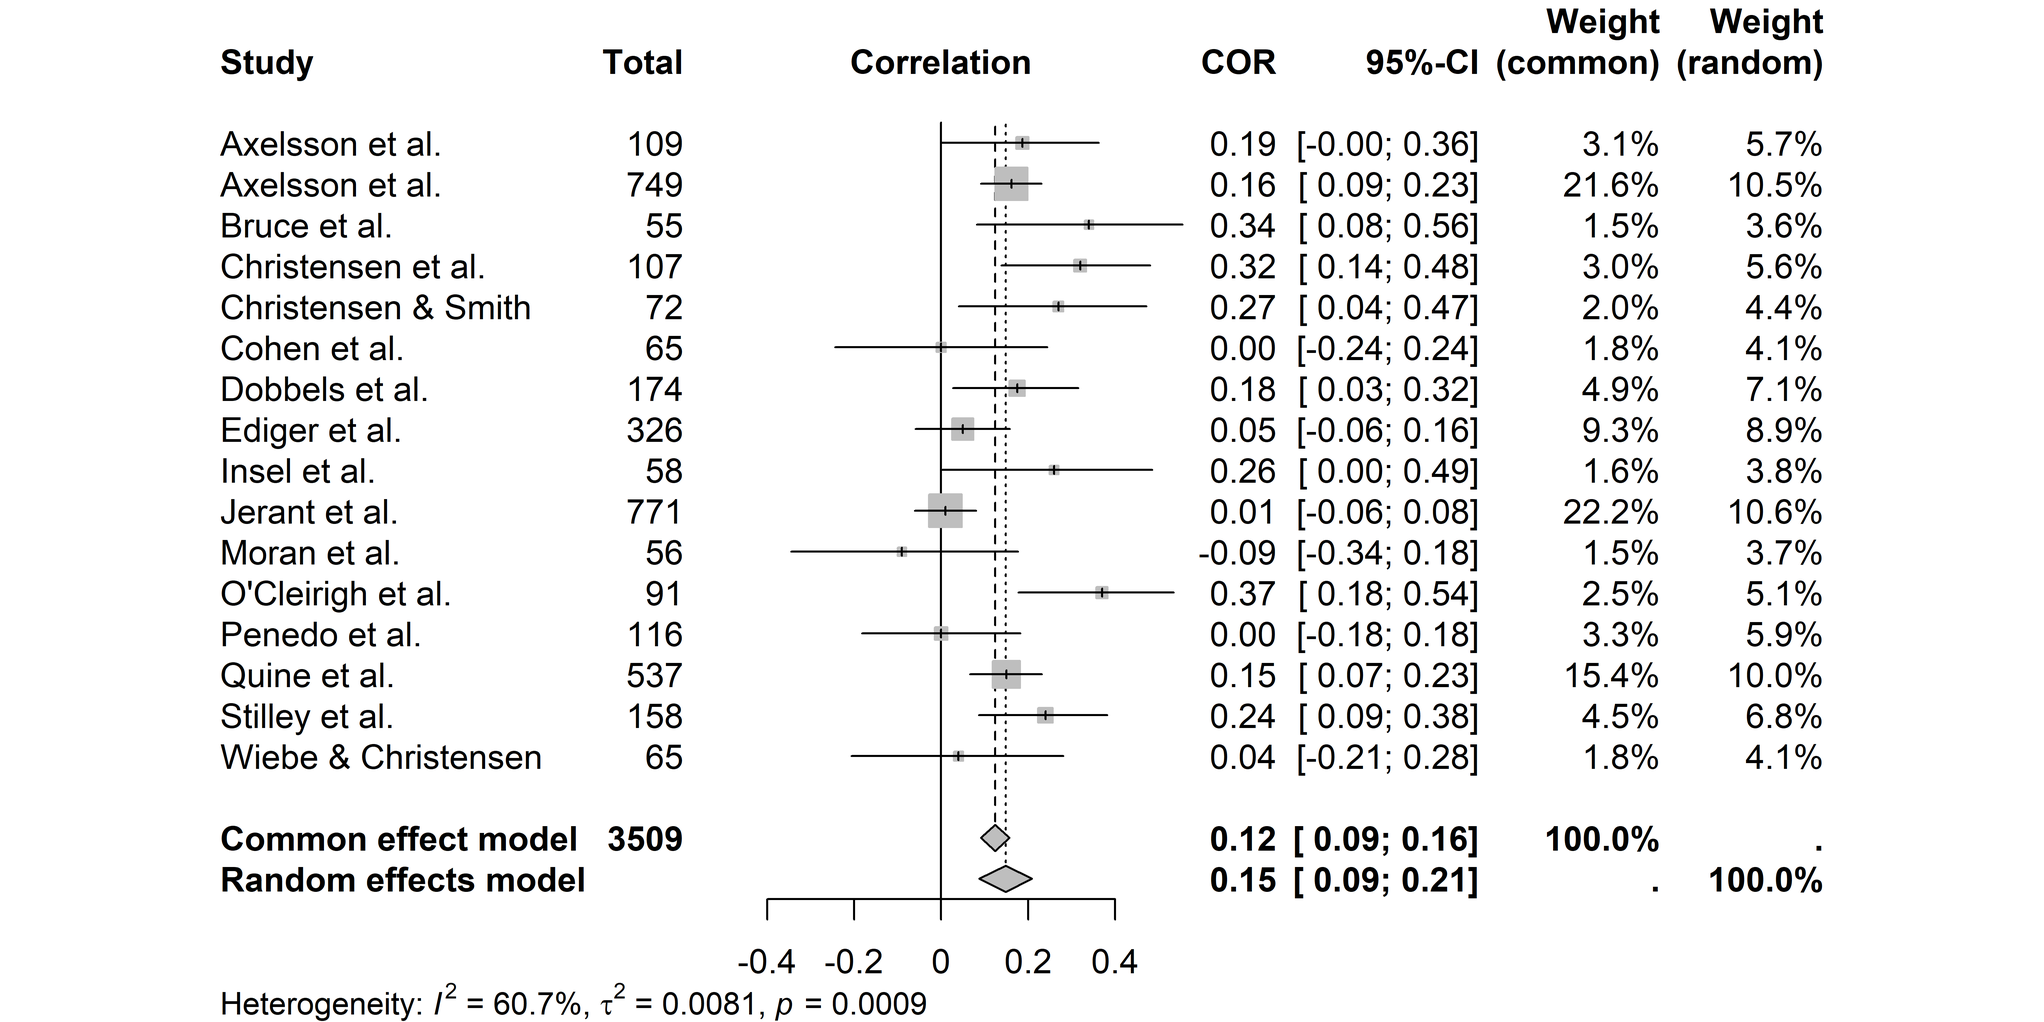
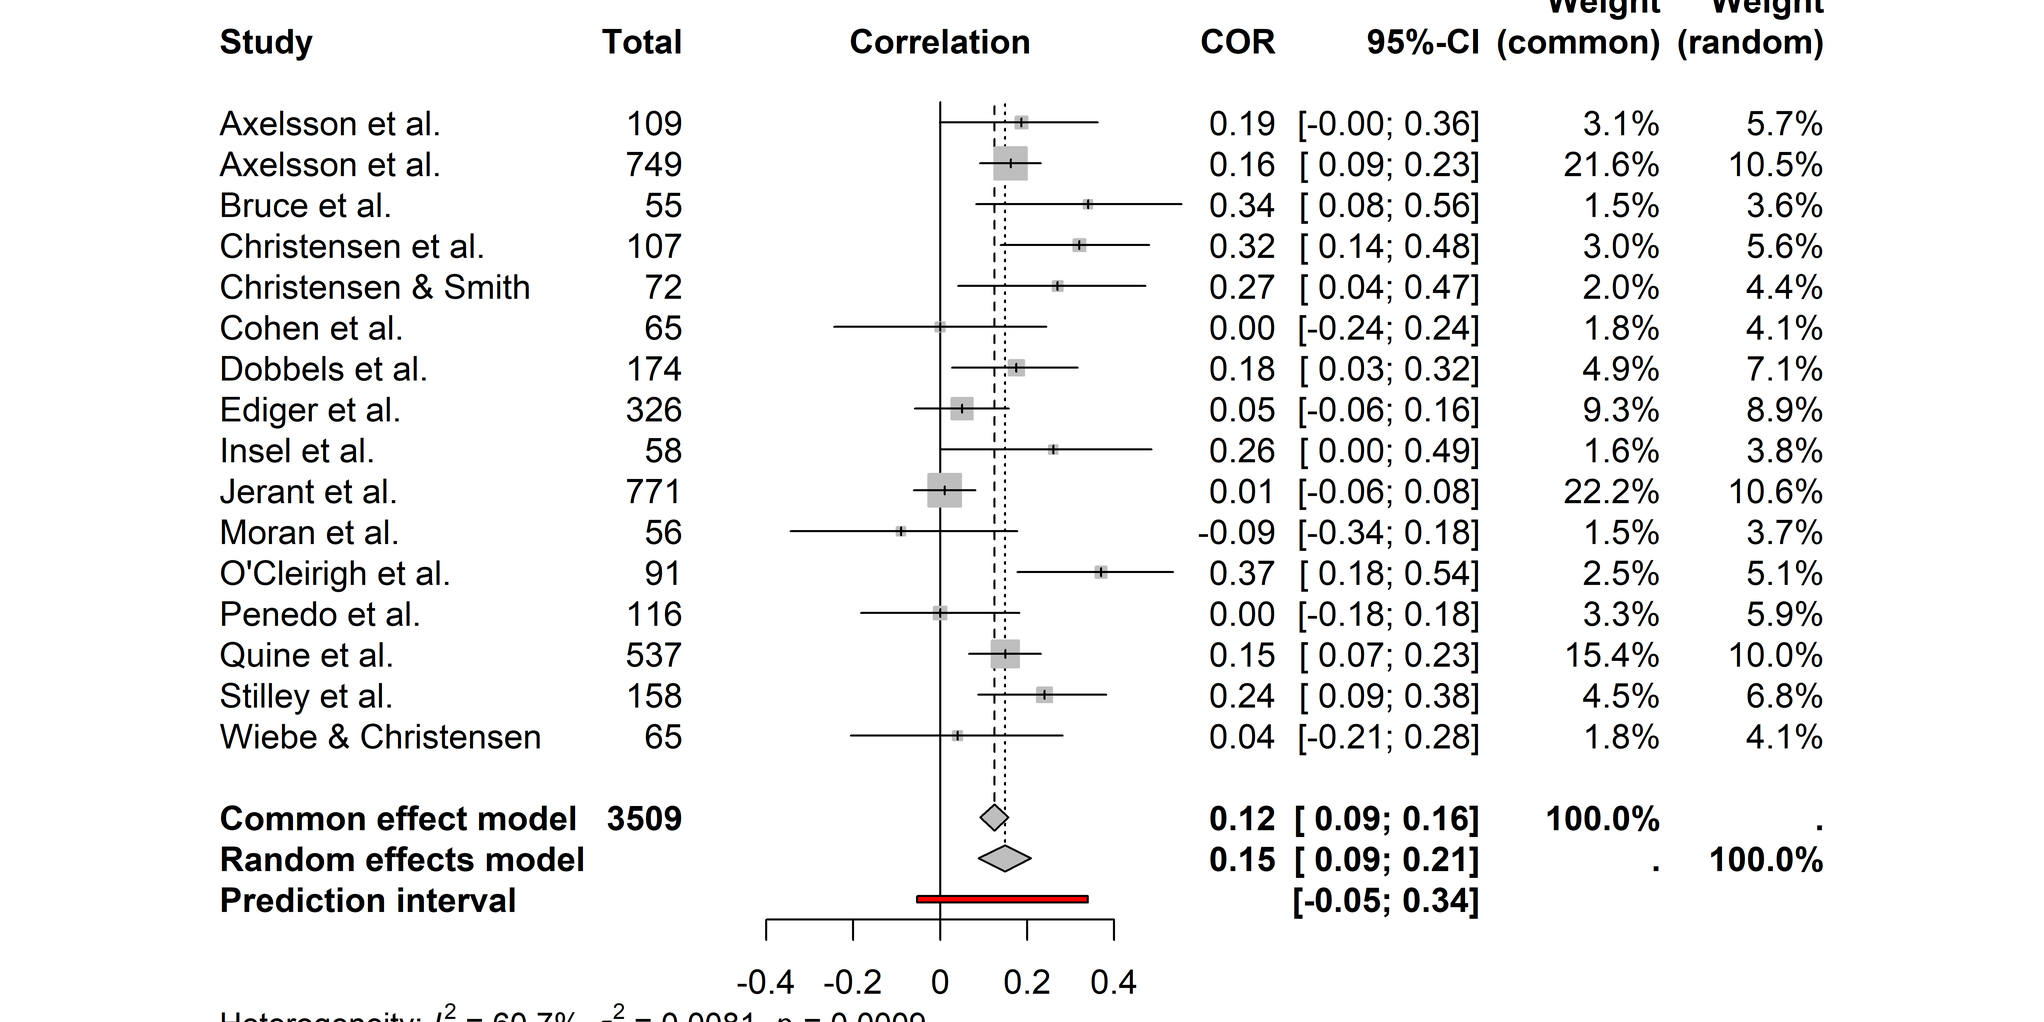
update final

diff --git a/index.html b/index.html
@@ -283,7 +283,7 @@
 <li class="fragment"><p>Asume que los estimadores individuales corresponden a un <strong>mismo efecto verdadero</strong> y toda la variación se da a causa del <strong>error muestral</strong>.</p></li>
 <li class="fragment"><p>El estimador global (<span class="math inline">\(\theta\)</span>) se calcula como el promedio ponderado de los efectos individuales (<span class="math inline">\(y_i\)</span>):</p>
 <p><span class="math display">\[
-\theta = \frac{\sum{y_i w_i}}{\sum{w_i}}\qquad donde~w_i = 1/var_i
+\theta = \frac{\sum{y_i w_i}}{\sum{w_i}}\qquad donde~w_i = 1/S^2_i
 \]</span></p></li>
 <li class="fragment"><p>Los estudios con <strong>menor varianza</strong> tienen <strong>mayor peso</strong> en la estimación global.</p></li>
 </ul>
@@ -300,8 +300,8 @@
 
 <ul>
 <li class="fragment"><p>💡 El <strong>objetivo</strong> será estimar la <strong>media de la distribución de efectos verdaderos</strong>.</p></li>
-<li class="fragment"><p>La ponderación de los estudios entonces tiene en cuenta la varianza dentro del estudio (<span class="math inline">\(var_i\)</span>) y la heterogeneidad entre estudios (<span class="math inline">\(\tau^2\)</span>):</p>
-<p><span class="math display">\[w^*_i = \frac{1}{var_i + \tau^2}\]</span></p></li>
+<li class="fragment"><p>La ponderación de los estudios entonces tiene en cuenta la varianza dentro del estudio (<span class="math inline">\(S^2_i\)</span>) y la heterogeneidad entre estudios (<span class="math inline">\(\tau^2\)</span>):</p>
+<p><span class="math display">\[w^*_i = \frac{1}{S^2_i + \tau^2}\]</span></p></li>
 <li class="fragment"><p>Los métodos más comunes para estimar <span class="math inline">\(\tau^2\)</span> son:</p>
 <ul>
 <li class="fragment"><strong>Máxima verosimilitud restringida</strong> (REML)</li>
@@ -313,18 +313,14 @@
 
 <h3 id="medidas-de-heterogeneidad">Medidas de heterogeneidad</h3>
 <ul>
-<li class="fragment"><p><strong>tau-cuadrado</strong> (<span class="math inline">\(\tau^2\)</span>)</p>
-<ul>
-<li class="fragment"><p>Estima la <strong>varianza entre efectos verdaderos</strong>.</p></li>
-<li class="fragment"><p>Se utiliza para ponderar estudios en modelos de efectos aleatorios</p></li>
-</ul></li>
+<li class="fragment"><p><strong>tau-cuadrado</strong> (<span class="math inline">\(\tau^2\)</span>): Varianza entre efectos verdaderos.</p></li>
 <li class="fragment"><p><strong>Q de Cochran</strong>:</p>
 <ul>
 <li class="fragment"><p>Contrasta la hipótesis de efecto común.</p></li>
 <li class="fragment"><p>Sensible al número de estudios.</p></li>
 <li class="fragment"><p>No mide magnitud de la heterogeneidad.</p></li>
 </ul></li>
-<li class="fragment"><p><span class="math inline">\(H^2\)</span>: Razón entre la varianza total observada y la varianza esperada bajo el supuesto de homogeneidad.</p></li>
+<li class="fragment"><p><span class="math inline">\(H^2\)</span>: Razón entre la varianza total observada y la esperada bajo el supuesto de homogeneidad.</p></li>
 </ul>
 </section>
 <section class="slide level2">
@@ -336,12 +332,24 @@
 <li class="fragment"><p>Independiente del número de estudios.</p></li>
 <li class="fragment"><p>Interpretación:</p>
 <ul>
-<li class="fragment"><p>25%: baja</p></li>
-<li class="fragment"><p>50%: moderada</p></li>
-<li class="fragment"><p>75%: alta</p></li>
+<li class="fragment"><p><strong>0-25%</strong>: baja heterogeneidad</p></li>
+<li class="fragment"><p><strong>25-50%</strong>: heterogeneidad moderada</p></li>
+<li class="fragment"><p><strong>50-75%</strong>: heterogeneidad sustancial</p></li>
+<li class="fragment"><p><strong>&gt;75%</strong>: alta heterogeneidad</p></li>
 </ul></li>
 </ul></li>
-<li class="fragment"><p><strong>Intervalo de predicción</strong>: Rango de valores que podrán tomar los estimadores de estudios futuros.</p></li>
+</ul>
+</section>
+<section class="slide level2">
+
+<ul>
+<li class="fragment"><p><strong>Intervalo de predicción</strong>:</p>
+<ul>
+<li class="fragment"><p>Predice el rango esperado del efecto en un nuevo estudio, considerando la evidencia existente.</p></li>
+<li class="fragment"><p>A diferencia del intervalo de confianza del efecto global, incorpora la <strong>heterogeneidad entre estudios</strong> (<span class="math inline">\(\tau^2\)</span>).</p></li>
+<li class="fragment"><p>Complementa la interpretación del <span class="math inline">\(I^2\)</span> y <span class="math inline">\(\tau^2\)</span>.</p></li>
+<li class="fragment"><p>Indica si los resultados son consistentes entre estudios.</p></li>
+</ul></li>
 </ul>
 </section>
 <section id="meta-análisis-en-r" class="slide level2">
@@ -451,14 +459,15 @@
 </ul>
 <div class="fragment">
 <div class="cell" data-layout-align="center">
-<div class="sourceCode cell-code" id="cb6" data-code-line-numbers="1-2,8"><pre class="sourceCode numberSource r number-lines code-with-copy"><code class="sourceCode r"><span id="cb6-1"><a href=""></a>mod <span class="ot">&lt;-</span> <span class="fu">metagen</span>(<span class="at">TE =</span> yi,    <span class="co"># Estimador de efecto         </span></span>
+<div class="sourceCode cell-code" id="cb6" data-code-line-numbers="1-2,7-9"><pre class="sourceCode numberSource r number-lines code-with-copy"><code class="sourceCode r"><span id="cb6-1"><a href=""></a>mod <span class="ot">&lt;-</span> <span class="fu">metagen</span>(<span class="at">TE =</span> yi,    <span class="co"># Estimador de efecto         </span></span>
 <span id="cb6-2"><a href=""></a>               <span class="at">seTE =</span> vi,  <span class="co"># Varianza del estimador</span></span>
 <span id="cb6-3"><a href=""></a>               <span class="at">sm =</span> <span class="st">"SMD"</span>, <span class="co"># Diferencia de medias estandarizada</span></span>
 <span id="cb6-4"><a href=""></a>               <span class="at">studlab =</span> study,    </span>
 <span id="cb6-5"><a href=""></a>               <span class="at">common =</span> <span class="cn">TRUE</span>,   </span>
 <span id="cb6-6"><a href=""></a>               <span class="at">random =</span> <span class="cn">TRUE</span>,    </span>
 <span id="cb6-7"><a href=""></a>               <span class="at">backtransf =</span> <span class="cn">TRUE</span>, </span>
-<span id="cb6-8"><a href=""></a>               <span class="at">data =</span> datos)</span></code><button title="Copy to Clipboard" class="code-copy-button"><i class="bi"></i></button></pre></div>
+<span id="cb6-8"><a href=""></a>               <span class="at">prediction =</span> <span class="cn">TRUE</span>, <span class="co"># Calcular intervalo de predicción</span></span>
+<span id="cb6-9"><a href=""></a>               <span class="at">data =</span> datos)</span></code><button title="Copy to Clipboard" class="code-copy-button"><i class="bi"></i></button></pre></div>
 </div>
 </div>
 <ul>
@@ -478,6 +487,7 @@
                          SMD             95%-CI      z p-value
 Common effect model  -0.0133 [-0.0140; -0.0126] -38.82       0
 Random effects model  0.1219 [ 0.0365;  0.2074]   2.80  0.0052
+Prediction interval          [-0.5328;  0.7767]               
 
 Quantifying heterogeneity (with 95%-CIs):
  tau^2 = 0.1048 [0.0739; 0.1588]; tau = 0.3238 [0.2719; 0.3985]
@@ -491,7 +501,8 @@ Details of meta-analysis methods:
 - Inverse variance method
 - Restricted maximum-likelihood estimator for tau^2
 - Q-Profile method for confidence interval of tau^2 and tau
-- Calculation of I^2 based on Q</code></pre>
+- Calculation of I^2 based on Q
+- Prediction interval based on t-distribution (df = 55)</code></pre>
 </div>
 </div>
 </div>
@@ -550,13 +561,13 @@ Details of meta-analysis methods:
 </div>
 </div>
 </section>
-<section id="funciones-metaxxx" class="slide level2">
-<h2>Funciones <code>metaxxx()</code></h2>
+<section id="funciones-meta___" class="slide level2">
+<h2>Funciones <code>meta___()</code></h2>
 <ul>
-<li class="fragment"><p>Permiten ajustar modelos de meta-análisis a partir de datos crudos sin necesidad de transformaciones previas.</p></li>
-<li class="fragment"><p>Se nombran siguiendo la estructura <code>metaxxx</code>, donde <code>xxx</code>es el tipo de datos o indicador.</p></li>
-<li class="fragment"><p>Ajustan modelos de efectos fijos y aleatorios y estiman indicadores de heterogeneidad.</p></li>
-<li class="fragment"><p>Devuelven los resultados en la escala original de los datos, aplicando la transformación inversa (argumento <code>backtransf = TRUE</code>).</p></li>
+<li class="fragment"><p>Permiten ajustar modelos de meta-análisis a partir de datos crudos.</p></li>
+<li class="fragment"><p>Se nombran siguiendo la estructura <code>meta__</code>, donde <code>___</code> es el tipo de datos o estimador de efecto.</p></li>
+<li class="fragment"><p>Realizan las transformaciones necesarias de los datos sin que tengamos que manipularlos previamente.</p></li>
+<li class="fragment"><p>Presentan los resultados en la escala original de los datos, aplicando la transformación inversa (argumento <code>backtransf = TRUE</code>).</p></li>
 </ul>
 </section>
 <section class="slide level2">
@@ -595,12 +606,13 @@ Details of meta-analysis methods:
 </div>
 <div class="sourceCode cell-code" id="cb11"><pre class="sourceCode numberSource r number-lines code-with-copy"><code class="sourceCode r"><span id="cb11-1"><a href=""></a><span class="co"># Ajustar modelo</span></span>
 <span id="cb11-2"><a href=""></a>mod_cor <span class="ot">&lt;-</span> <span class="fu">metacor</span>(</span>
-<span id="cb11-3"><a href=""></a>  <span class="at">cor =</span> ri,           <span class="co"># Coeficientes de correlación</span></span>
-<span id="cb11-4"><a href=""></a>  <span class="at">n =</span> ni,             <span class="co"># Tamaño muestral</span></span>
-<span id="cb11-5"><a href=""></a>  <span class="at">sm =</span> <span class="st">"ZCOR"</span>,        <span class="co"># Estimador de efecto</span></span>
-<span id="cb11-6"><a href=""></a>  <span class="at">studlab =</span> authors,  <span class="co"># Identificador del estudio</span></span>
-<span id="cb11-7"><a href=""></a>  <span class="at">data =</span> datos_cor    <span class="co"># Tabla de datos</span></span>
-<span id="cb11-8"><a href=""></a>)</span></code><button title="Copy to Clipboard" class="code-copy-button"><i class="bi"></i></button></pre></div>
+<span id="cb11-3"><a href=""></a>  <span class="at">cor =</span> ri,            <span class="co"># Coeficientes de correlación</span></span>
+<span id="cb11-4"><a href=""></a>  <span class="at">n =</span> ni,              <span class="co"># Tamaño muestral</span></span>
+<span id="cb11-5"><a href=""></a>  <span class="at">sm =</span> <span class="st">"ZCOR"</span>,         <span class="co"># Estimador de efecto</span></span>
+<span id="cb11-6"><a href=""></a>  <span class="at">studlab =</span> authors,   <span class="co"># Identificador del estudio</span></span>
+<span id="cb11-7"><a href=""></a>  <span class="at">data =</span> datos_cor,    <span class="co"># Tabla de datos</span></span>
+<span id="cb11-8"><a href=""></a>  <span class="at">prediction =</span> <span class="cn">TRUE</span>    <span class="co"># Calcular intervalo de predicción</span></span>
+<span id="cb11-9"><a href=""></a>)</span></code><button title="Copy to Clipboard" class="code-copy-button"><i class="bi"></i></button></pre></div>
 </div>
 </div>
 <div id="tabset-2-2">
@@ -609,9 +621,10 @@ Details of meta-analysis methods:
 <pre><code>Number of studies: k = 16
 Number of observations: o = 3509
 
-                        COR           95%-CI    z  p-value
-Common effect model  0.1245 [0.0916; 0.1572] 7.36 &lt; 0.0001
-Random effects model 0.1488 [0.0878; 0.2087] 4.75 &lt; 0.0001
+                        COR            95%-CI    z  p-value
+Common effect model  0.1245 [ 0.0916; 0.1572] 7.36 &lt; 0.0001
+Random effects model 0.1488 [ 0.0878; 0.2087] 4.75 &lt; 0.0001
+Prediction interval         [-0.0534; 0.3393]              
 
 Quantifying heterogeneity (with 95%-CIs):
  tau^2 = 0.0081 [0.0017; 0.0378]; tau = 0.0901 [0.0412; 0.1944]
@@ -626,6 +639,7 @@ Details of meta-analysis methods:
 - Restricted maximum-likelihood estimator for tau^2
 - Q-Profile method for confidence interval of tau^2 and tau
 - Calculation of I^2 based on Q
+- Prediction interval based on t-distribution (df = 15)
 - Fisher's z transformation of correlations</code></pre>
 </div>
 </div>
@@ -655,13 +669,14 @@ Details of meta-analysis methods:
 </div>
 <div class="sourceCode cell-code" id="cb15"><pre class="sourceCode numberSource r number-lines code-with-copy"><code class="sourceCode r"><span id="cb15-1"><a href=""></a><span class="co"># Ajustar modelo</span></span>
 <span id="cb15-2"><a href=""></a>mod_prev <span class="ot">&lt;-</span> <span class="fu">metaprop</span>(</span>
-<span id="cb15-3"><a href=""></a>  <span class="at">event =</span> cases,      <span class="co"># Individuos con la condición</span></span>
-<span id="cb15-4"><a href=""></a>  <span class="at">n =</span> total,          <span class="co"># Tamaño muestral</span></span>
-<span id="cb15-5"><a href=""></a>  <span class="at">sm =</span> <span class="st">"PLO"</span>,         <span class="co"># Estimador de efecto</span></span>
-<span id="cb15-6"><a href=""></a>  <span class="at">pscale =</span> <span class="dv">1000</span>,      <span class="co"># Expresar prevalencia cada 1000 hab</span></span>
-<span id="cb15-7"><a href=""></a>  <span class="at">studlab =</span> study,    <span class="co"># Identificador del estudio</span></span>
-<span id="cb15-8"><a href=""></a>  <span class="at">data =</span> datos_prev   <span class="co"># Tabla de datos</span></span>
-<span id="cb15-9"><a href=""></a>)</span></code><button title="Copy to Clipboard" class="code-copy-button"><i class="bi"></i></button></pre></div>
+<span id="cb15-3"><a href=""></a>  <span class="at">event =</span> cases,       <span class="co"># Individuos con la condición</span></span>
+<span id="cb15-4"><a href=""></a>  <span class="at">n =</span> total,           <span class="co"># Tamaño muestral</span></span>
+<span id="cb15-5"><a href=""></a>  <span class="at">sm =</span> <span class="st">"PLO"</span>,          <span class="co"># Estimador de efecto</span></span>
+<span id="cb15-6"><a href=""></a>  <span class="at">pscale =</span> <span class="dv">1000</span>,       <span class="co"># Expresar prevalencia cada 1000 hab</span></span>
+<span id="cb15-7"><a href=""></a>  <span class="at">studlab =</span> study,     <span class="co"># Identificador del estudio</span></span>
+<span id="cb15-8"><a href=""></a>  <span class="at">data =</span> datos_prev,   <span class="co"># Tabla de datos</span></span>
+<span id="cb15-9"><a href=""></a>  <span class="at">prediction =</span> <span class="cn">TRUE</span>    <span class="co"># Calcular intervalo de predicción</span></span>
+<span id="cb15-10"><a href=""></a>)</span></code><button title="Copy to Clipboard" class="code-copy-button"><i class="bi"></i></button></pre></div>
 </div>
 </div>
 <div id="tabset-3-2">
@@ -674,6 +689,7 @@ Number of events: e = 1545
                      events           95%-CI
 Common effect model  0.2290 [0.2179; 0.2407]
 Random effects model 0.2246 [0.2082; 0.2422]
+Prediction interval         [0.1753; 0.2877]
 
 Quantifying heterogeneity (with 95%-CIs):
  tau^2 = 0.0130 [0.0000; 0.0376]; tau = 0.1139 [0.0000; 0.1938]
@@ -688,6 +704,7 @@ Details of meta-analysis methods:
 - Restricted maximum-likelihood estimator for tau^2
 - Q-Profile method for confidence interval of tau^2 and tau
 - Calculation of I^2 based on Q
+- Prediction interval based on t-distribution (df = 25)
 - Logit transformation
 - Events per 1000 observations</code></pre>
 </div>
@@ -720,14 +737,15 @@ Details of meta-analysis methods:
 </div>
 <div class="sourceCode cell-code" id="cb19"><pre class="sourceCode numberSource r number-lines code-with-copy"><code class="sourceCode r"><span id="cb19-1"><a href=""></a><span class="co"># Ajustar modelo</span></span>
 <span id="cb19-2"><a href=""></a>mod_or <span class="ot">&lt;-</span> <span class="fu">metabin</span>(</span>
-<span id="cb19-3"><a href=""></a>  <span class="at">event.e =</span> pre.xti,  <span class="co"># Expuestos con el evento</span></span>
-<span id="cb19-4"><a href=""></a>  <span class="at">n.e =</span> pre.nti,      <span class="co"># Tamaño muestral expuestos</span></span>
-<span id="cb19-5"><a href=""></a>  <span class="at">event.c =</span> pre.xci,  <span class="co"># No expuestos con el evento</span></span>
-<span id="cb19-6"><a href=""></a>  <span class="at">n.c =</span> pre.nci,      <span class="co"># Tamaño muestral no expuestos</span></span>
-<span id="cb19-7"><a href=""></a>  <span class="at">sm =</span> <span class="st">"OR"</span>,          <span class="co"># Estimador de efecto</span></span>
-<span id="cb19-8"><a href=""></a>  <span class="at">studlab =</span> author,   <span class="co"># Identificador del estudio</span></span>
-<span id="cb19-9"><a href=""></a>  <span class="at">data =</span> datos_or    <span class="co"># Tabla de datos</span></span>
-<span id="cb19-10"><a href=""></a>)</span></code><button title="Copy to Clipboard" class="code-copy-button"><i class="bi"></i></button></pre></div>
+<span id="cb19-3"><a href=""></a>  <span class="at">event.e =</span> pre.xti,   <span class="co"># Expuestos con el evento</span></span>
+<span id="cb19-4"><a href=""></a>  <span class="at">n.e =</span> pre.nti,       <span class="co"># Tamaño muestral expuestos</span></span>
+<span id="cb19-5"><a href=""></a>  <span class="at">event.c =</span> pre.xci,   <span class="co"># No expuestos con el evento</span></span>
+<span id="cb19-6"><a href=""></a>  <span class="at">n.c =</span> pre.nci,       <span class="co"># Tamaño muestral no expuestos</span></span>
+<span id="cb19-7"><a href=""></a>  <span class="at">sm =</span> <span class="st">"OR"</span>,           <span class="co"># Estimador de efecto</span></span>
+<span id="cb19-8"><a href=""></a>  <span class="at">studlab =</span> author,    <span class="co"># Identificador del estudio</span></span>
+<span id="cb19-9"><a href=""></a>  <span class="at">data =</span> datos_or,     <span class="co"># Tabla de datos</span></span>
+<span id="cb19-10"><a href=""></a>  <span class="at">prediction =</span> <span class="cn">TRUE</span>    <span class="co"># Calcular intervalo de predicción</span></span>
+<span id="cb19-11"><a href=""></a>)</span></code><button title="Copy to Clipboard" class="code-copy-button"><i class="bi"></i></button></pre></div>
 </div>
 </div>
 <div id="tabset-4-2">
@@ -740,6 +758,7 @@ Number of events: e = 636
                          OR           95%-CI     z  p-value
 Common effect model  0.6677 [0.5620; 0.7932] -4.60 &lt; 0.0001
 Random effects model 0.5956 [0.3843; 0.9233] -2.32   0.0205
+Prediction interval         [0.1520; 2.3343]               
 
 Quantifying heterogeneity (with 95%-CIs):
  tau^2 = 0.3008 [0.0723; 2.2027]; tau = 0.5484 [0.2689; 1.4842]
@@ -754,7 +773,8 @@ Details of meta-analysis methods:
 - Inverse variance method (random effects model)
 - Restricted maximum-likelihood estimator for tau^2
 - Q-Profile method for confidence interval of tau^2 and tau
-- Calculation of I^2 based on Q</code></pre>
+- Calculation of I^2 based on Q
+- Prediction interval based on t-distribution (df = 8)</code></pre>
 </div>
 </div>
 </div>
@@ -788,9 +808,10 @@ Details of meta-analysis methods:
 <span id="cb23-5"><a href=""></a>  <span class="at">event.c =</span> x2i,       <span class="co"># Casos en grupo control</span></span>
 <span id="cb23-6"><a href=""></a>  <span class="at">time.c =</span> t2i,        <span class="co"># Tiempo-persona en grupo control</span></span>
 <span id="cb23-7"><a href=""></a>  <span class="at">sm =</span> <span class="st">"IRR"</span>,          <span class="co"># Estimador de efecto</span></span>
-<span id="cb23-8"><a href=""></a>  <span class="at">studlab =</span> authors,     <span class="co"># Identificador del estudio</span></span>
-<span id="cb23-9"><a href=""></a>  <span class="at">data =</span> datos_inc     <span class="co"># Tabla de datos</span></span>
-<span id="cb23-10"><a href=""></a>)</span></code><button title="Copy to Clipboard" class="code-copy-button"><i class="bi"></i></button></pre></div>
+<span id="cb23-8"><a href=""></a>  <span class="at">studlab =</span> authors,   <span class="co"># Identificador del estudio</span></span>
+<span id="cb23-9"><a href=""></a>  <span class="at">data =</span> datos_inc,    <span class="co"># Tabla de datos</span></span>
+<span id="cb23-10"><a href=""></a>  <span class="at">prediction =</span> <span class="cn">TRUE</span>    <span class="co"># Calcular intervalo de predicción</span></span>
+<span id="cb23-11"><a href=""></a>)</span></code><button title="Copy to Clipboard" class="code-copy-button"><i class="bi"></i></button></pre></div>
 </div>
 </div>
 <div id="tabset-5-2">
@@ -802,6 +823,7 @@ Number of events: e = 125
                         IRR           95%-CI     z p-value
 Common effect model  0.6602 [0.4608; 0.9459] -2.26  0.0236
 Random effects model 0.6728 [0.4314; 1.0494] -1.75  0.0806
+Prediction interval         [0.2796; 1.6192]              
 
 Quantifying heterogeneity (with 95%-CIs):
  tau^2 = 0.0936 [0.0000; 1.4845]; tau = 0.3060 [0.0000; 1.2184]
@@ -816,7 +838,8 @@ Details of meta-analysis methods:
 - Inverse variance method (random effects model)
 - Restricted maximum-likelihood estimator for tau^2
 - Q-Profile method for confidence interval of tau^2 and tau
-- Calculation of I^2 based on Q</code></pre>
+- Calculation of I^2 based on Q
+- Prediction interval based on t-distribution (df = 8)</code></pre>
 </div>
 </div>
 </div>
